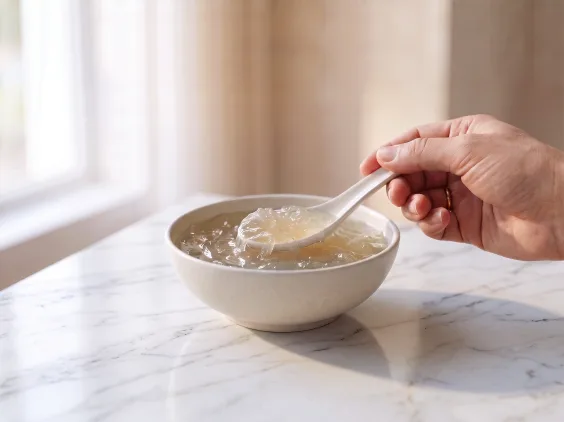
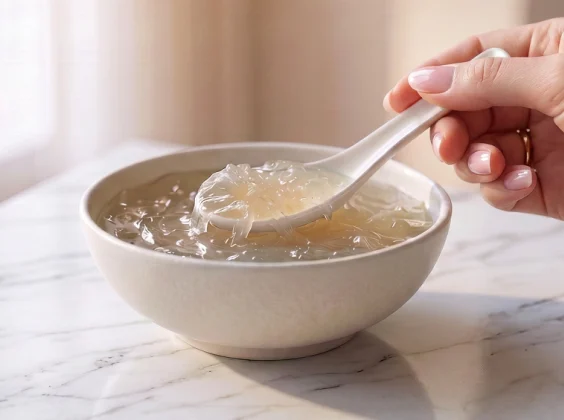
Replace the three Our Story photographs
Supplied by the user: the shophouse masthead, the aroma card under
Characteristics of High Quality Bird's Nest, and the Health Benefits
portrait. The aroma card was identified by composition — the same bowl,
spoon and marble surface as the outgoing photo, reshot with a different
hand — and by its 564x420 dimensions matching that slot exactly. The other
two Characteristics photos are unchanged.

Health Benefits moves from JPG to WebP. The outgoing health-benefits.jpg
was 926 KB, the heaviest asset on the site. The three slots together fall
from 1,020 KB to 260 KB while the masthead and portrait both gain
resolution; the superseded JPG is deleted, nothing else referenced it.

Declared width/height now match each file's real intrinsic size, so no
layout shift is introduced. The two files that kept their names carry
?v=20260908 — without a new URL a returning visitor keeps the cached old
photograph, which is exactly the case for anyone who has already opened
the page.

The masthead alt no longer calls the image an archive photograph. It is a
stylised sepia street scene, not a scan of one, so the alt describes what
is shown without asserting provenance. Raised as a query in
CONTENT-QUERIES.md.

diff --git a/our-story.html b/our-story.html
@@ -83,9 +83,9 @@
   <section class="page-ground">
     <div class="page-wrap page-head">
       <h1 class="page-head__title" data-reveal>Our Story</h1>
-      <img class="story-art" src="assets/figma/story/shophouse-photo.webp"
-           alt="Archive photograph of the shophouse at 19 North Canal Road, Singapore, where Hoo Ann Bird's Nest traded"
-           width="760" height="587" data-reveal="media">
+      <img class="story-art" src="assets/figma/story/shophouse-photo.webp?v=20260908"
+           alt="The Hoo Ann Bird's Nest shopfront in sepia, its signboard reading 阜安燕窝私人有限公司, with staff at the counter and deliveries arriving by rickshaw and trolley"
+           width="1234" height="928" data-reveal="media">
     </div>
 
     <div class="page-wrap">
@@ -163,9 +163,9 @@
     <div class="page-wrap">
       <div class="benefits__grid">
         <div class="benefits__photo" data-reveal="media">
-          <img src="assets/figma/story/health-benefits.jpg"
+          <img src="assets/figma/story/health-benefits.webp"
                alt="A woman holding a bowl of prepared bird's nest at a table"
-               width="1200" height="896" loading="lazy" decoding="async">
+               width="1448" height="1086" loading="lazy" decoding="async">
         </div>
 
         <div>
@@ -211,9 +211,9 @@
           <p class="trait__body">Expands two to three times after soaking while retaining its natural strands.</p>
         </li>
         <li class="trait trait--plain" data-reveal data-reveal-delay="3">
-          <img class="trait__photo" src="assets/figma/story/char-aroma.webp"
+          <img class="trait__photo" src="assets/figma/story/char-aroma.webp?v=20260908"
                  alt="A serving of prepared bird's nest being lifted from a bowl with a spoon"
-                 width="564" height="421" loading="lazy" decoding="async">
+                 width="564" height="420" loading="lazy" decoding="async">
           <p class="trait__body">
             Has a light egg-white aroma. House Bird's Nest have a soft and delicate texture while
             Cave Bird's Nest are crunchy and chewier in texture.

diff --git a/CONTENT-QUERIES.md b/CONTENT-QUERIES.md
@@ -1023,3 +1023,36 @@ form, which adds roughly 250px to that section's height.
 Verification: all 8 pages at 320, 390, 414, 768, 1024, 1280 and 1440px. No
 horizontal overflow, no clipped text, no sub-44px targets on phones. Desktop
 alignment confirmed unchanged at 1440px.
+
+## Our Story photographs replaced — 8 Sep 2026
+
+The user supplied three replacements, applied in place:
+
+| Slot | File | Source |
+|---|---|---|
+| Masthead | `story/shophouse-photo.webp` | `image (29).png`, 1234x928 |
+| Characteristics, aroma card | `story/char-aroma.webp` | `image (30).png`, 564x420 |
+| Health Benefits | `story/health-benefits.webp` | `Health Benefits 1.jpg`, 1448x1086 |
+
+The aroma card was identified by composition — the supplied photo is the same
+bowl, spoon and marble surface as the outgoing `char-aroma.webp`, reshot with a
+different hand — and by its 564x420 dimensions matching that slot exactly. The
+other two Characteristics photos are unchanged.
+
+Health Benefits moved from JPG to WebP: the outgoing `health-benefits.jpg` was
+926 KB, the heaviest asset on the site. The three slots together fall from
+1,020 KB to 260 KB, a 742 KB saving, while the masthead and Health Benefits
+photographs both gain resolution. `health-benefits.jpg` was deleted; nothing
+else referenced it.
+
+Declared `width`/`height` were updated to each new file's real intrinsic size so
+no layout shift is introduced. The two files that kept their names carry
+`?v=20260908` — without a new URL, returning visitors would keep the cached
+old photograph.
+
+QUERY — the masthead alt text previously read "Archive photograph of the
+shophouse at 19 North Canal Road". The supplied image is a stylised sepia
+street scene rather than a scan of an archival photograph, so the alt now
+describes what is shown without asserting provenance. If the image IS an
+archival photograph, say so and the original wording can be restored; if it is
+a recreation, the surrounding page should not imply otherwise either.
